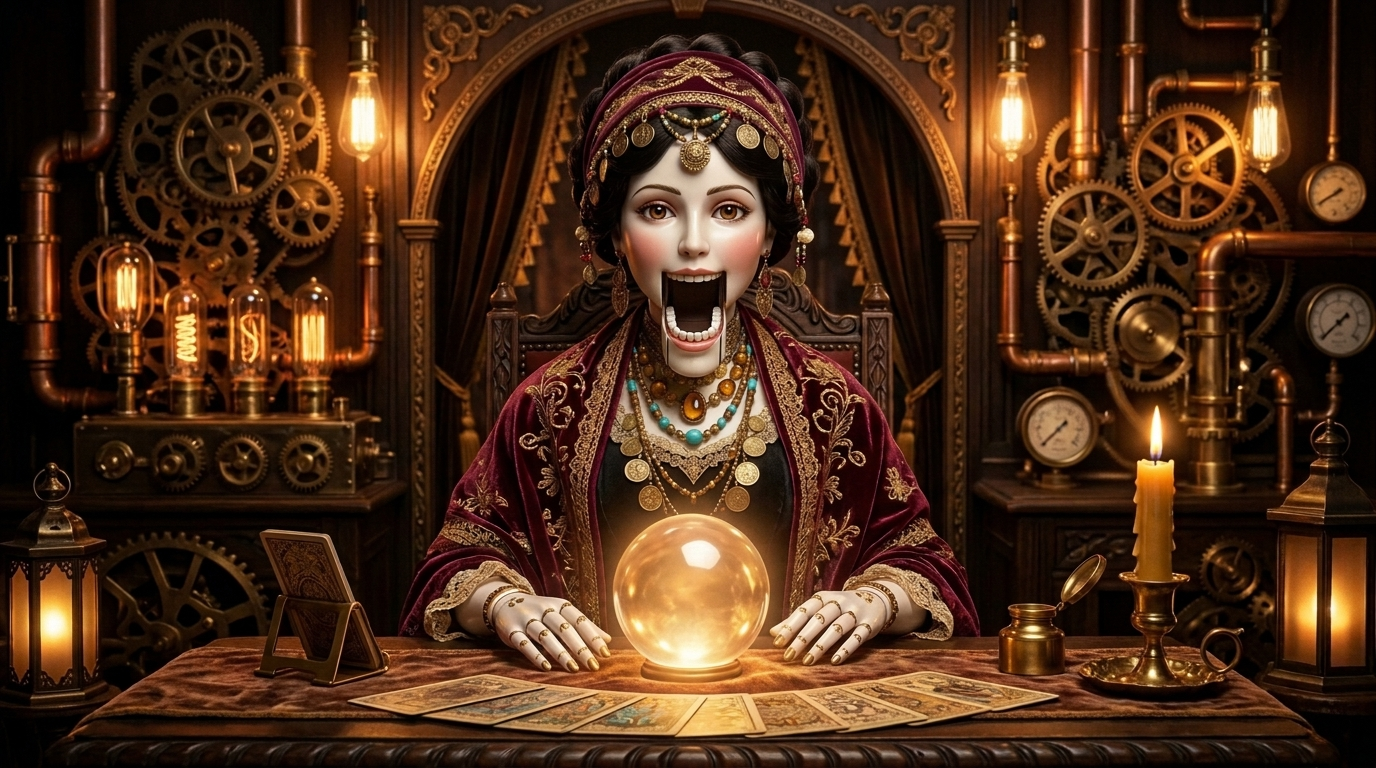
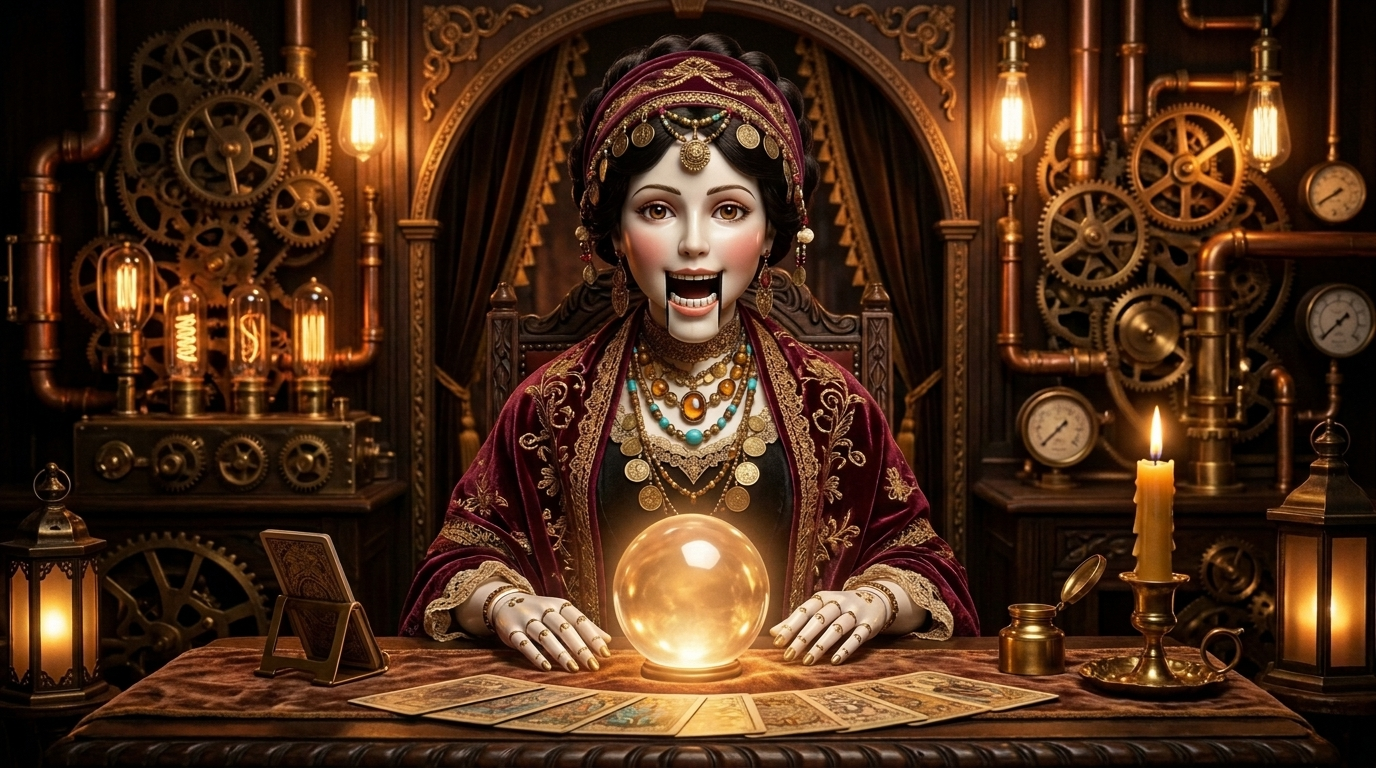
Her widest mouth stays on the foam head: old mouth-2 is now mouth-3, new mouth-2 halfway
The full marionette drop (old mouth-3) ran far off the mannequin's chin. The old
mouth-2 (jaw just past her chin) is now the widest frame, and mouth-2 is that
frame with its jaw squashed to halfway between mouth-1 and it. MOUTH_OPEN now
defaults to 3, since every frame fits the foam head.

Changed region(s): [[0.4688, 0.3438, 0.5312, 0.5938]]

diff --git a/static/js/puppet.js b/static/js/puppet.js
@@ -161,7 +161,7 @@ export class Puppet {
     this._lastServo = 0;
     this._last = performance.now();
     // Her timings in seconds, replaced by the server's (.env) once they arrive.
-    this.timing = { dim: 0.9, blink_min: 2.5, blink_max: 7.5, blink: 0.17, glimpse_min: 0.33, glimpse_max: 0.58, glimpse_gap_min: 0.42, glimpse_gap_max: 0.83, look_side: 0.35, mouth_open: 2, glance_min: 5, glance_max: 14, glance: 0.9 };
+    this.timing = { dim: 0.9, blink_min: 2.5, blink_max: 7.5, blink: 0.17, glimpse_min: 0.33, glimpse_max: 0.58, glimpse_gap_min: 0.42, glimpse_gap_max: 0.83, look_side: 0.35, mouth_open: 3, glance_min: 5, glance_max: 14, glance: 0.9 };
     this._blinkAt = performance.now() + 3000;
     this._blinkTicks = 0;
     this._jitter = { x: 0, y: 0, r: 0 };
@@ -328,7 +328,7 @@ export class Puppet {
     // The photograph's mouth: shut, then three openings, set on the servo clock,
     // no wider than MOUTH_OPEN.
     const v = this.jawLevel;
-    this._mouth = Math.min(v < 0.2 ? 0 : v < 0.45 ? 1 : v < 0.7 ? 2 : 3, this.timing.mouth_open ?? 2);
+    this._mouth = Math.min(v < 0.2 ? 0 : v < 0.45 ? 1 : v < 0.7 ? 2 : 3, this.timing.mouth_open ?? 3);
     if (this.shake > 0) {
       this.shake--;
       this._jitter = { x: (Math.random() - 0.5) * 14, y: (Math.random() - 0.5) * 8 };
@@ -391,7 +391,7 @@ export class Puppet {
   // Her photograph as it is this tick. Asleep she is the same, only dimmed.
   _portraitNow(time) {
     const p = this.pose;
-    if (this.mode === "head" && this.preview) return this.portrait.compose(Math.floor(time) % 2 ? this.timing.mouth_open ?? 2 : 0);
+    if (this.mode === "head" && this.preview) return this.portrait.compose(Math.floor(time) % 2 ? this.timing.mouth_open ?? 3 : 0);
     return this.portrait.compose(this._mouth, this._eyesNow(), p.brow > 0.5);
   }
 

diff --git a/server/config.py b/server/config.py
@@ -160,7 +160,7 @@ _TIMINGS = {
     "WAKE_DAZED_S": (1.6, "how long she looks around, dazed, after a startled waking", (0, 5, 0.1)),
     # her looks
     "LOOK_SIDE": (0.35, "how far off-centre her gaze must be (0-1) before her eyes turn to look that way", (0.05, 1, 0.05)),
-    "MOUTH_OPEN": (2, "her widest mouth: 1 parted, 2 dropped to her teeth, 3 the full drop (runs off the foam head)", (1, 3, 1)),
+    "MOUTH_OPEN": (3, "her widest mouth: 1 parted, 2 half dropped, 3 dropped to her teeth", (1, 3, 1)),
     "GLANCE_MIN_S": (5, "awake, shortest gap between her glances away (left, right, up or down)", (1, 60, 1)),
     "GLANCE_MAX_S": (14, "longest gap between glances away", (1, 90, 1)),
     "GLANCE_S": (0.9, "how long a glance away holds (0 = she never glances away)", (0, 3, 0.1)),

diff --git a/server/setting_help.py b/server/setting_help.py
@@ -183,8 +183,8 @@ HELP: dict[str, tuple[str, str]] = {
         "0.35",
     ),
     "MOUTH_OPEN": (
-        "Her widest mouth while talking. 1: lips parted. 2: dropped to show her teeth. 3: the full marionette drop, which can run off the bottom of the foam head.",
-        "2 for the foam head; 3 on a flat screen",
+        "Her widest mouth while talking. 1: lips parted. 2: half dropped. 3: dropped to show her teeth, still on the foam head.",
+        "3",
     ),
     "GLANCE_MIN_S": (
         "While awake she now and then glances away (left, right, up or down), never sooner than this after the last glance.",

diff --git a/README.md b/README.md
@@ -43,7 +43,7 @@ She needs the internet: Claude for every word she says about a guest, ElevenLabs
 
 **Voices:** the setup screen lists her voices; press **Hear** to listen to one and **Use this voice** to give it to her; the one she uses is marked **In use**. Add a voice with a name and its ElevenLabs voice ID, or remove one; they're kept in `.env` as `VOICES`. The voice she has is always in the list; remove it and she takes the first one left. When you awaken her in a new voice, it's tried first (she won't start in a voice ElevenLabs refuses) and all her stock lines are voiced again in it, which takes a few seconds the first time.
 
-**Her looks:** her photographed eyes follow what she's doing. She looks left, right, up or down when her gaze goes past `LOOK_SIDE`, and glances away now and then while awake (`GLANCE_MIN_S` to `GLANCE_MAX_S`, held for `GLANCE_S`). Her brows go up when she wakes and greets them, her eyes roll back in a trance while she consults an adult (kids see her look down into the ball), and her lids hang half shut when she's startled awake. Her mouth opens no wider than `MOUTH_OPEN` (default 2, the drop to her teeth); the full drop runs off the foam head.
+**Her looks:** her photographed eyes follow what she's doing. She looks left, right, up or down when her gaze goes past `LOOK_SIDE`, and glances away now and then while awake (`GLANCE_MIN_S` to `GLANCE_MAX_S`, held for `GLANCE_S`). Her brows go up when she wakes and greets them, her eyes roll back in a trance while she consults an adult (kids see her look down into the ball), and her lids hang half shut when she's startled awake. Her mouth opens no wider than `MOUTH_OPEN` (default 3, the drop to her teeth).
 
 **Walking away:** if every face disappears from the camera for 8 seconds at any point in a reading, she stops mid-sentence, grumbles ("Hmph. Gone without a word..."), and goes back to sleep. If they leave during the fortune, no ticket prints. This only applies once the camera has actually seen the guest, so a dark booth where face detection struggles never cuts a real reading short. Pressing the button or speaking also counts as "still here". **J / K** adjust the 8 seconds, and **D** shows the countdown.
 
